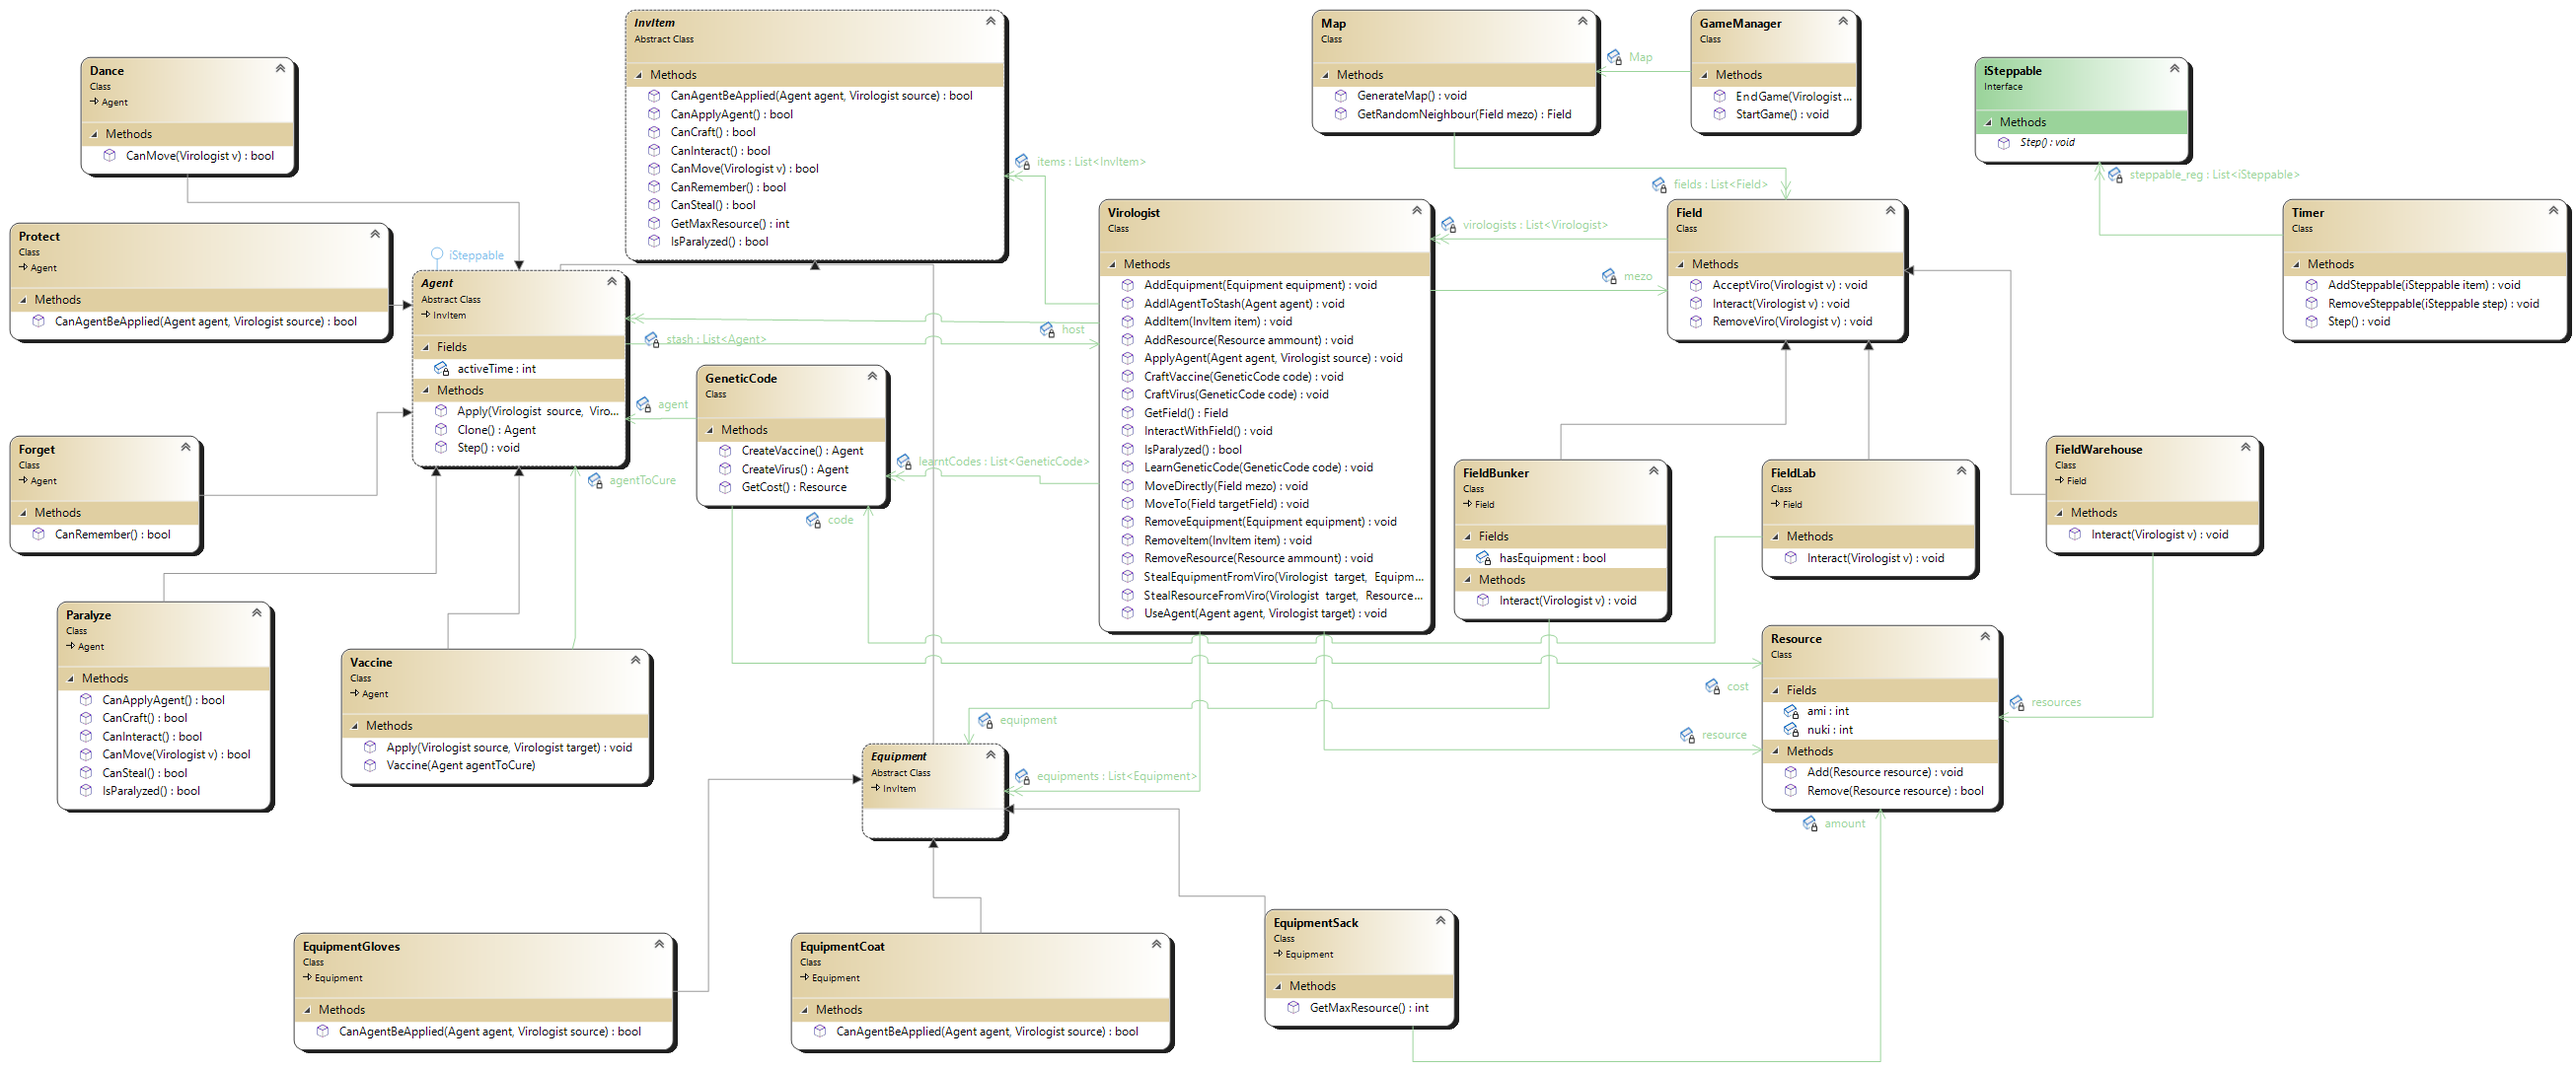
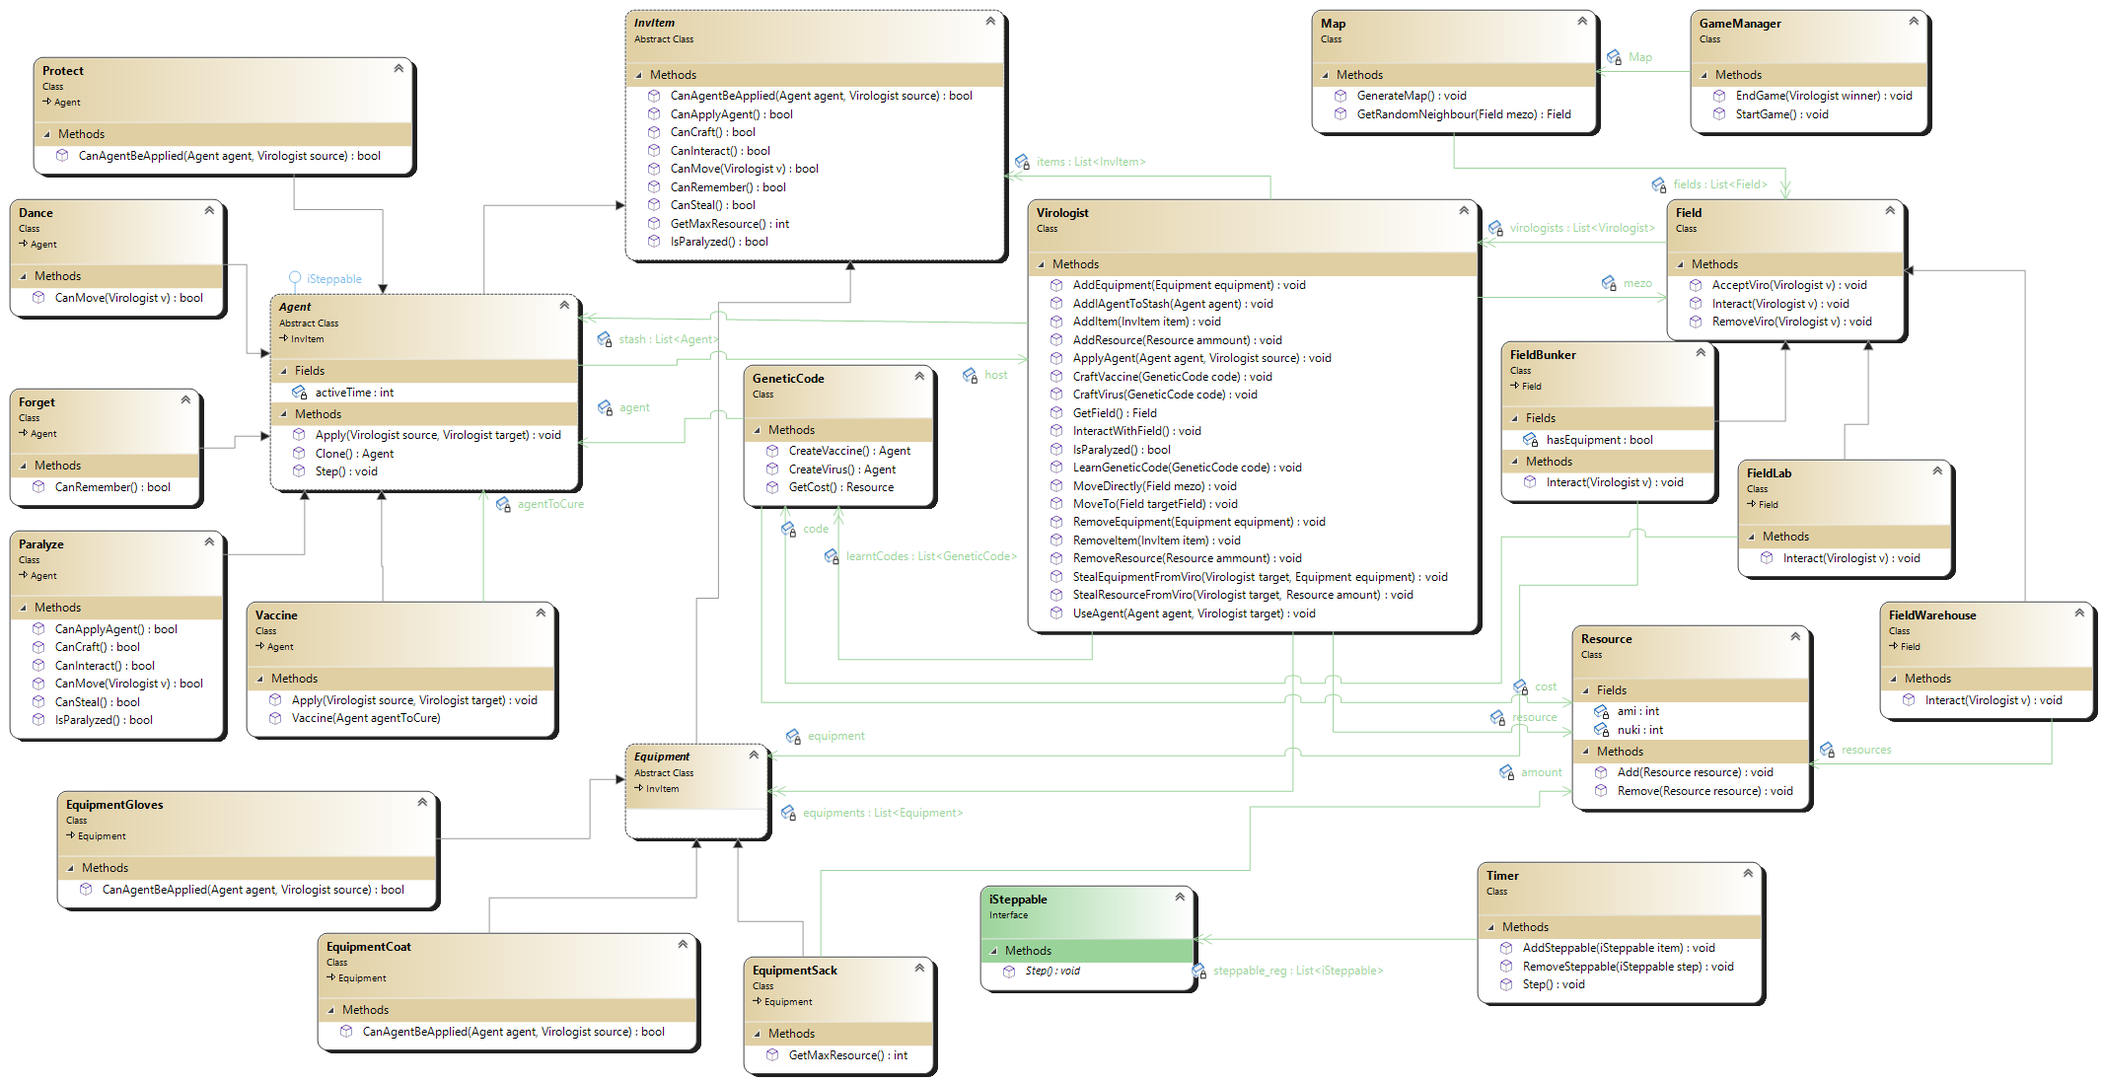
Refactor, typo

diff --git a/uml_gen/uml_generator/Program.cs b/uml_gen/uml_generator/Program.cs
@@ -67,7 +67,7 @@ namespace CatchThemAll
         {
             throw new System.NotImplementedException();
         }
-        public void StealResourceFromViro(Virologist target, Resource ammount)
+        public void StealResourceFromViro(Virologist target, Resource amount)
         {
             throw new System.NotImplementedException();
         }
@@ -294,7 +294,7 @@ namespace CatchThemAll
             throw new System.NotImplementedException();
         }
 
-        public bool Remove(Resource resource)
+        public void Remove(Resource resource)
         {
             throw new System.NotImplementedException();
         }
